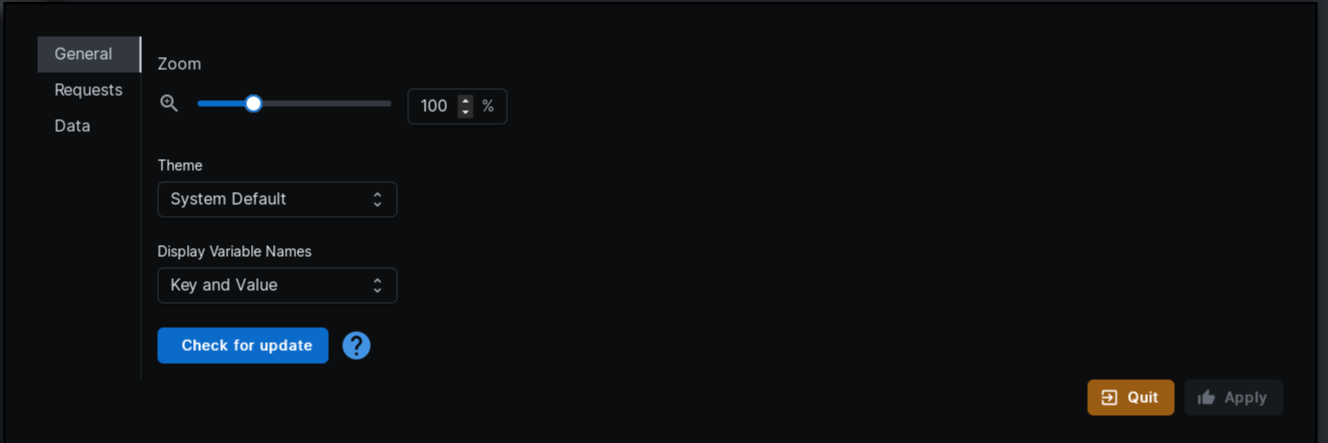
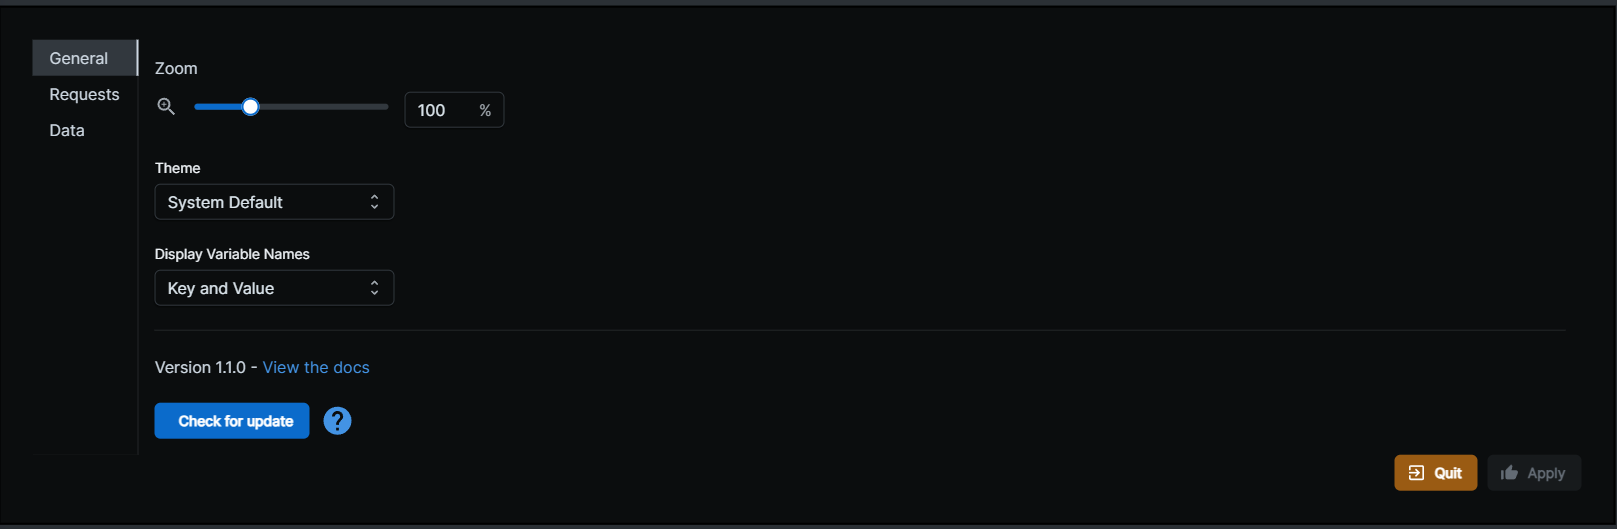
update docs

diff --git a/docs/documentation/panels.md b/docs/documentation/panels.md
@@ -36,7 +36,7 @@ The request settings menu has the options for the network call timeout duration,
 
 ![Settings Panel - Data](../assets/images/getting-started/panels/settings-panel-data.png)
 
-The data folder deals with saving, quitting to the [workspace selection screen](../../getting-started/layout/#workspace-selection-screen), and opening the data folder in your system's file explorer. You will rarely need to do this, but the `Open Data Folder` button will open the location of all of the data in Sprocket Pan in your system's file explorer.  
+The data folder deals with saving, quitting to the [workspace selection screen](../../getting-started/layout/#workspace-selection-screen), and opening the data folder in your system's file explorer. You will rarely need to do this, but the `Open Data Folder` button will open the location of all of the data in Sprocket Pan in your system's file explorer. You can also export your workspace so that others can access it. If you export without environment variables, the keys will be kept but the values for your environment variables will be empty.
 
 ## Environment
 

diff --git a/docs/getting-started/layout.md b/docs/getting-started/layout.md
@@ -26,7 +26,9 @@ The toolbar is a floating set of actions that the user can take to interact with
 
 #### Import From File
 
-The first button in the top row of buttons, `Import from File` opens up a file selection dialog. SP currently supports openAPI/swagger docs versions `2`, `3` and `3.1`. You can click on any openAPI `JSON` or `yaml` file to load the document into SP.
+The first button in the top row of buttons, `Import from File` opens a dropdown for the multiple types of imports Sprocket Pan can handle. Those currently include [Sprocket Pan Exports](../../documentation/panels/#data), Insomnia, Postman, and OpenAPI/Swagger.
+
+![Import From File Dialog](../assets/images/getting-started/layout/import-from-file.png)
 
 #### Create New
 

diff --git a/readme.md b/readme.md
@@ -11,5 +11,5 @@ pip install -r requirements.txt
 Start
 
 ```Shell
-mkdocs servce
+mkdocs serve
 ```
